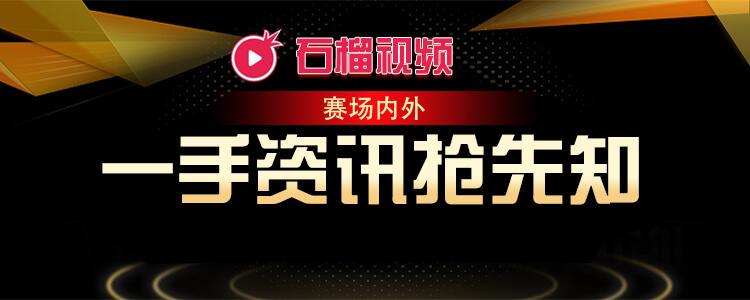
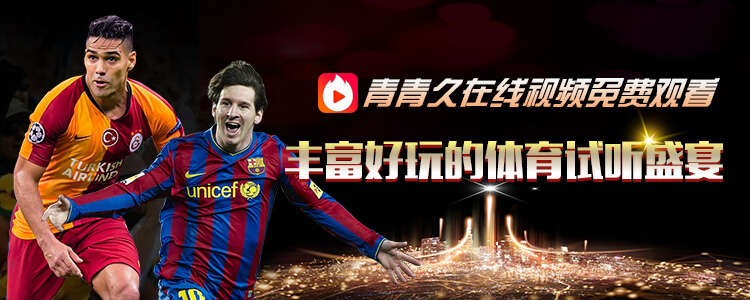
视频模板28使用 青青久在线视频免费观看发布

diff --git a/小程序模板/视频模板/videotemplate28/pages/index/index.js b/小程序模板/视频模板/videotemplate28/pages/index/index.js
@@ -6,7 +6,8 @@ const app = getApp();
 let number = 30;
 let {
   api,
-  apifrom
+  apifrom,
+  c
 } = app;
 Page({
   data: {
@@ -161,10 +162,10 @@ Page({
 
   onShow() {
     swan.setPageInfo({
-      title: '蘑菇视频，免费视频观看。',
-      keywords: '蘑菇视频，性感视频，石榴视频',
-      description: '蘑菇视频，免费视频观看。',
-      articleTitle: '蘑菇视频',
+      title: '青青久在线视频免费观看。',
+      keywords: '青青久在线视频免费观看，桃色视频，黄瓜直播',
+      description: '青青久在线视频免费观看',
+      articleTitle: '青青久在线视频免费观看',
       releaseDate: "2019-01-02 12:01:30",
       image: [
         "https://c.hiphotos.baidu.com/forum/w%3D480/sign=73c62dda83b1cb133e693d1bed5456da/f33725109313b07e8dee163d02d7912396dd8cfe.jpg",
@@ -249,7 +250,7 @@ Page({
       responseType: "text",
       data: {
         host: apifrom,
-        c: 166,
+        c: c,
       },
       success: (res) => {
         this.showHttploading(false);
@@ -289,7 +290,7 @@ Page({
       dataType: "json",
       responseType: "text",
       data: {
-        c: 166,
+        c: c,
         p: page, //第几页
         n: this.number, //每页条数
       },
@@ -393,7 +394,7 @@ Page({
             dataType: "json",
             responseType: "text",
             data: {
-              c: 166,
+              c: c,
               p: machpage, //第几页
               n: n, //每页条数
             },

diff --git a/小程序模板/视频模板/videotemplate28/pages/detail/detail.js b/小程序模板/视频模板/videotemplate28/pages/detail/detail.js
@@ -1,5 +1,9 @@
 const app = getApp();
-let api = app.api;
+let {
+  api,
+  apifrom,
+  c
+} = app;
 Page({
   setNavigationBarColor() {
     swan.setNavigationBarColor({
@@ -46,10 +50,10 @@ Page({
           title
         } = this.data
         swan.setPageInfo({
-          title: '石榴视频，在线观看',
-          keywords: '石榴视频，夜色直播，美女直播',
-          description: '石榴视频，在线观看',
-          articleTitle: `${title}-石榴视频`,
+          title: '青青久在线视频免费观看。',
+          keywords: '青青久在线视频免费观看，桃色视频，黄瓜直播',
+          description: '青青久在线视频免费观看',
+          articleTitle: `${title}-青青久在线视频免费观看`,
           releaseDate: "2019-01-02 12:01:30",
           image: [
             "https://c.hiphotos.baidu.com/forum/w%3D480/sign=73c62dda83b1cb133e693d1bed5456da/f33725109313b07e8dee163d02d7912396dd8cfe.jpg",
@@ -188,10 +192,10 @@ Page({
       success: res => {
         let news_title = res.data.params.news_title
 
-        let newTitle = `${news_title}-石榴视频`
+        let newTitle = `${news_title}-青青久在线视频免费观看`
         if (!newTitle) {
           swan.showToast({
-            title: `${news_title}-石榴视频`
+            title: `${news_title}-青青久在线视频免费观看`
           });
           return;
         }

diff --git a/小程序模板/视频模板/videotemplate28/pages/web/web.js b/小程序模板/视频模板/videotemplate28/pages/web/web.js
@@ -1,5 +1,5 @@
 const app = getApp();
-let {api,apifrom} = app;
+let {api,apifrom,c} = app;
 Page({
   setNavigationBarColor() {
     swan.setNavigationBarColor({
@@ -28,10 +28,10 @@ Page({
   },
   onshow() {
     swan.setPageInfo({
-      title: '石榴视频，在线观看',
-      keywords: '石榴视频，夜色直播，美女直播',
-      description: '石榴视频，在线观看',
-      articleTitle: `石榴视频`,
+      title: '青青久在线视频免费观看。',
+      keywords: '青青久在线视频免费观看，桃色视频，黄瓜直播',
+      description: '青青久在线视频免费观看',
+      articleTitle: '青青久在线视频免费观看',
       releaseDate: "2019-01-02 12:01:30",
       image: [
         "https://c.hiphotos.baidu.com/forum/w%3D480/sign=73c62dda83b1cb133e693d1bed5456da/f33725109313b07e8dee163d02d7912396dd8cfe.jpg",
@@ -73,7 +73,8 @@ Page({
       responseType: "text",
       data: {
         host: apifrom,
-        c: 143
+        c: c
+
       },
       success: res => {
         let { menu } = res.data.params;

diff --git a/小程序模板/视频模板/videotemplate28/pages/bannerweb/bannerweb.js b/小程序模板/视频模板/videotemplate28/pages/bannerweb/bannerweb.js
@@ -1,5 +1,5 @@
 const app = getApp();
-let {api,apifrom} = app;
+let {api,apifrom,c} = app;
 Page({
   setNavigationBarColor() {
     swan.setNavigationBarColor({
@@ -73,7 +73,7 @@ Page({
       responseType: "text",
       data: {
         host: apifrom,
-        c: 166
+        c: c
       },
       success: res => {
         let { menu } = res.data.params;

diff --git a/小程序模板/视频模板/videotemplate28/app.js b/小程序模板/视频模板/videotemplate28/app.js
@@ -5,8 +5,9 @@
 
 /* globals swan */
 App({
-    api: "https://z5mh2.cn",
-    apifrom:'https://z5mh2.cn',
+    api: "https://1hq61.cn",
+    apifrom:'https://1hq61.cn',
+    c:176,
     onLaunch(options) {
         // do something when launch
         // 引导添加，参见文档： http://smartprogram.baidu.com/docs/design/component/guide_add/
